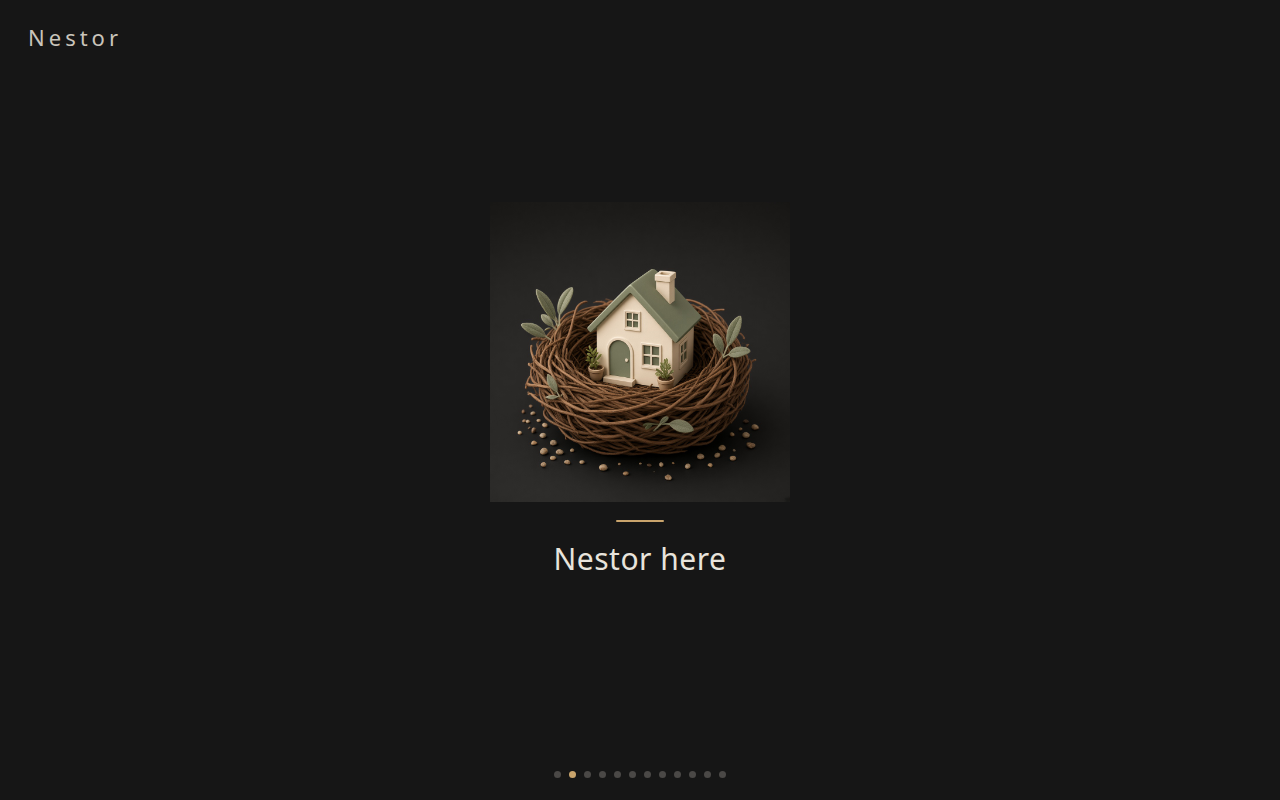
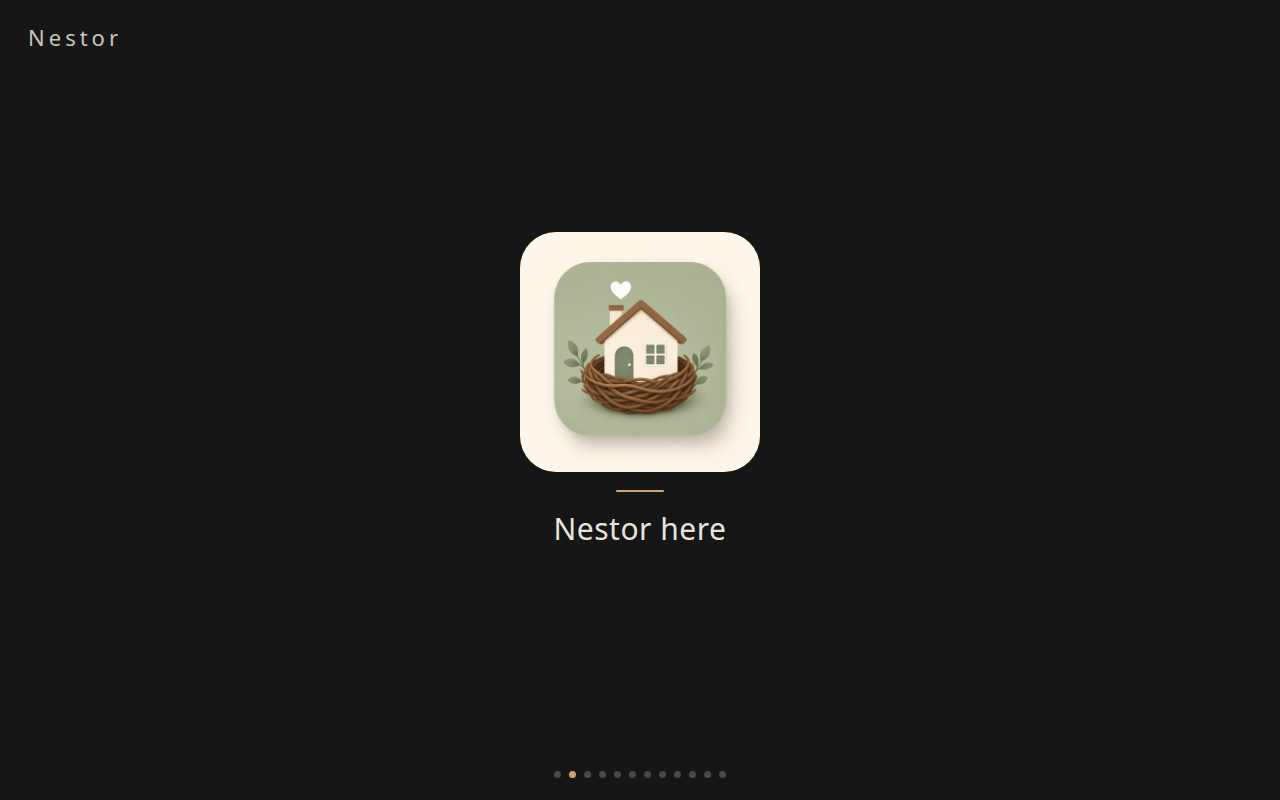
Keep the serif Nestor mark visible over the zoomed hatch
Clip the showpiece zoom so the cottage can grow without covering the
top mark or the greeting. Refresh Phase 3 keyframe screenshots.

Changed region(s): [[0.4062, 0.2812, 0.5938, 0.5938], [0.4375, 0.625, 0.5625, 0.7188]]

diff --git a/src/dashboard/cards/HatchShowpiece.tsx b/src/dashboard/cards/HatchShowpiece.tsx
@@ -44,7 +44,7 @@ export function HatchShowpiece({ frame = null }: Props) {
       start.setValue(1);
       shatter.setValue(stage === 'hatch' || stage === 'house' ? 1 : 0);
       revealed.setValue(stage === 'house' ? 1 : 0);
-      zoom.setValue(stage === 'hatch' ? 1.06 : stage === 'house' ? 1.12 : 1);
+      zoom.setValue(stage === 'hatch' ? 1.04 : stage === 'house' ? 1.08 : 1);
       tagline.setValue(stage === 'egg' ? 1 : 0);
       mark.setValue(stage === 'house' ? 1 : 0);
       greeting.setValue(stage === 'house' ? 1 : 0);
@@ -66,10 +66,10 @@ export function HatchShowpiece({ frame = null }: Props) {
     const animation = Animated.sequence([
       Animated.parallel([fade(start, 1, TIMING.startIn), fade(tagline, 1, TIMING.startIn)]),
       Animated.delay(TIMING.startHold),
-      Animated.parallel([fade(shatter, 1, TIMING.shatterIn), fade(zoom, 1.06, TIMING.shatterIn)]),
+      Animated.parallel([fade(shatter, 1, TIMING.shatterIn), fade(zoom, 1.04, TIMING.shatterIn)]),
       Animated.parallel([
         fade(revealed, 1, TIMING.revealedIn),
-        fade(zoom, 1.12, TIMING.revealedIn),
+        fade(zoom, 1.08, TIMING.revealedIn),
         fade(tagline, 0, TIMING.markIn),
         fade(mark, 1, TIMING.markIn),
       ]),
@@ -83,19 +83,21 @@ export function HatchShowpiece({ frame = null }: Props) {
   return (
     <View style={styles.wrap} testID="nestor-card-showpiece" accessibilityLabel={SHOWPIECE_GREETING}>
       <Animated.Text style={[styles.mark, { opacity: mark }]}>{SHOWPIECE_MARK}</Animated.Text>
-      <Animated.View style={[styles.stage, { transform: [{ scale: zoom }] }]}>
-        <Animated.Image source={brandingImages.hatchStart} style={[styles.art, { opacity: start }]} resizeMode="contain" />
-        <Animated.Image
-          source={brandingImages.hatchShatter}
-          style={[styles.art, { opacity: shatter }]}
-          resizeMode="contain"
-        />
-        <Animated.Image
-          source={brandingImages.hatchRevealed}
-          style={[styles.art, { opacity: revealed }]}
-          resizeMode="contain"
-        />
-      </Animated.View>
+      <View style={styles.stageClip}>
+        <Animated.View style={[styles.stage, { transform: [{ scale: zoom }] }]}>
+          <Animated.Image source={brandingImages.hatchStart} style={[styles.art, { opacity: start }]} resizeMode="contain" />
+          <Animated.Image
+            source={brandingImages.hatchShatter}
+            style={[styles.art, { opacity: shatter }]}
+            resizeMode="contain"
+          />
+          <Animated.Image
+            source={brandingImages.hatchRevealed}
+            style={[styles.art, { opacity: revealed }]}
+            resizeMode="contain"
+          />
+        </Animated.View>
+      </View>
       <View style={styles.footer}>
         <Animated.Text style={[styles.tagline, { opacity: tagline }]}>{SHOWPIECE_TAGLINE}</Animated.Text>
         <Animated.Text style={[styles.greeting, { opacity: greeting }]}>{SHOWPIECE_GREETING}</Animated.Text>
@@ -114,9 +116,10 @@ const styles = StyleSheet.create({
   },
   mark: {
     position: 'absolute',
-    top: 28,
+    top: 18,
     left: 0,
     right: 0,
+    zIndex: 2,
     textAlign: 'center',
     color: colors.bark,
     fontSize: type.serifMark,
@@ -124,11 +127,16 @@ const styles = StyleSheet.create({
     letterSpacing: 0.4,
     ...serif,
   },
+  stageClip: {
+    width: 500,
+    height: 500,
+    maxWidth: '52%',
+    maxHeight: '64%',
+    overflow: 'hidden',
+  },
   stage: {
-    width: 420,
-    height: 420,
-    maxWidth: '46%',
-    maxHeight: '62%',
+    width: '100%',
+    height: '100%',
   },
   art: {
     position: 'absolute',

diff --git a/src/theme.ts b/src/theme.ts
@@ -23,7 +23,7 @@ export const type = {
   caption: 16,
   branding: 30,
   greeting: 24,
-  serifMark: 56,
+  serifMark: 64,
 } as const;
 
 export const serif = {
